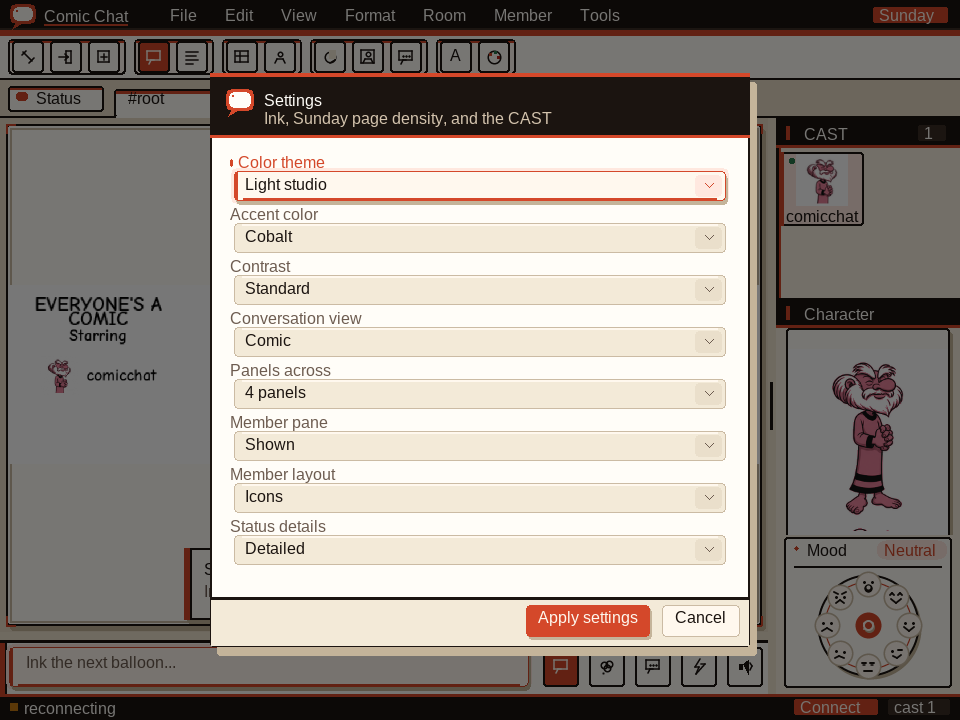
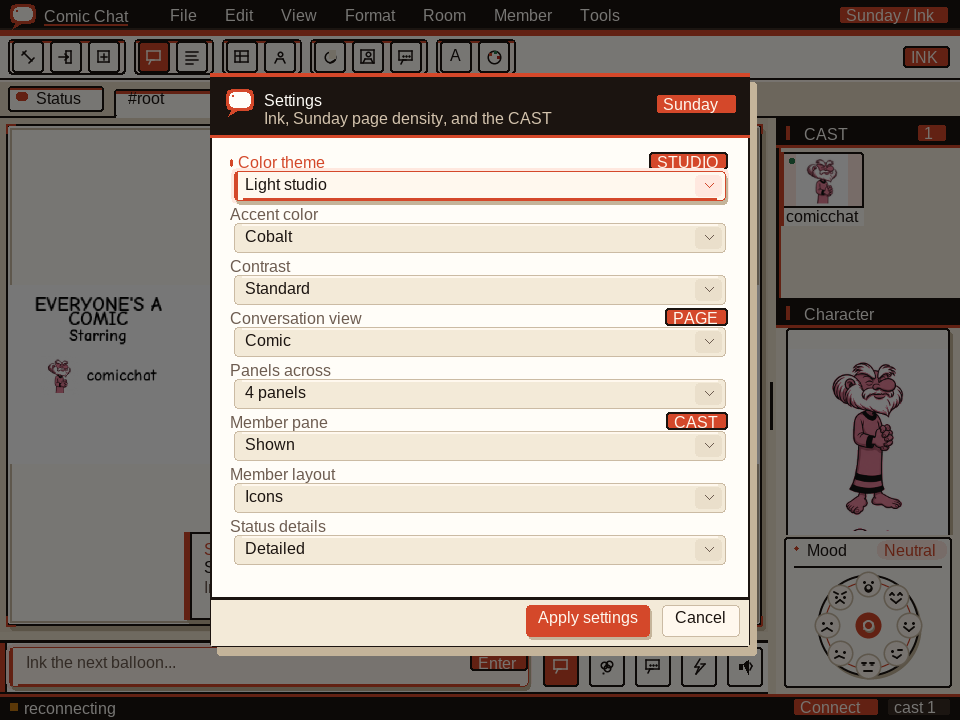
ui: densify Ink Sunday plates, CAST, and composer
Add playbill name plates and edition kickers, stamp INK / Enter / STUDIO
PAGE CAST marks, and keep 2px HiDPI rules. CAST portraits still use the
same 52x52 bottom-aligned blit. Refresh committed render-ui previews.

diff --git a/.ai/tasks/CC-20260824-03.md b/.ai/tasks/CC-20260824-03.md
@@ -1,0 +1,38 @@
+# Task contract: CC-20260824-03
+
+## Outcome
+
+Another heavy Ink Sunday chrome pass on PR #11: denser plates, empty and
+conversation states, menus, settings, CAST layout chrome (no portrait-crop
+changes), composer, and HiDPI strokes. Refresh committed preview PNGs.
+
+## Route
+
+- Score: `1 + 1 + 1 + 1 = 4`
+- Primary lane: `balanced`
+- Required reviewer: `fast`
+- Maximum parallel lanes: `1`
+- Critical domain: `none`
+
+## Ownership
+
+- Owned paths: `src/client/ui.zig`, `src/client/view.zig`, `src/client/dialogs.zig`, committed `ui-*-preview.png`
+- Forbidden paths: `src/comic/original_*`, `strip.zig`, blit crop helpers, `src/platform/*`
+- Base commit: `5405e8a`
+
+## Acceptance criteria
+
+- [ ] CAST cards keep the same 52×52 bottom-aligned blit; only chrome around them changes
+- [ ] Empty/conversation/menus/settings/composer read denser and more printed
+- [ ] Tests green; committed previews refreshed
+
+## Verification
+
+- Focused gate: `zig build test` plus `render-ui` variants
+- Build gate: `zig build -Dtarget=x86_64-linux`
+- Hygiene gate: `git diff --check`
+
+## Authority
+
+- Local edits authorized: `yes`
+- External writes authorized: `no`

diff --git a/docs/UI_LIBRARY.md b/docs/UI_LIBRARY.md
@@ -30,7 +30,9 @@ visual contract.
   window sizes the caption collapses to a compact instruction instead of
   overflowing the available buffer. Structural chrome strokes stay at least
   two framebuffer pixels (`ui.stroke`) so nearest-neighbour 2x/3x HiDPI scale
-  keeps masthead rules, page ticks, and plate frames readable.
+  keeps masthead rules, page ticks, and plate frames readable. CAST portraits
+  keep the same bottom-aligned blit; only the playbill plate around them is
+  chrome.
 - Shell chrome is an ink masthead, paper tool rack, playbill inspector headers,
   and a caption-box composer. Dialogs use the same masthead as the application.
 - Comic pages default to four panels across. The room strip exposes an
